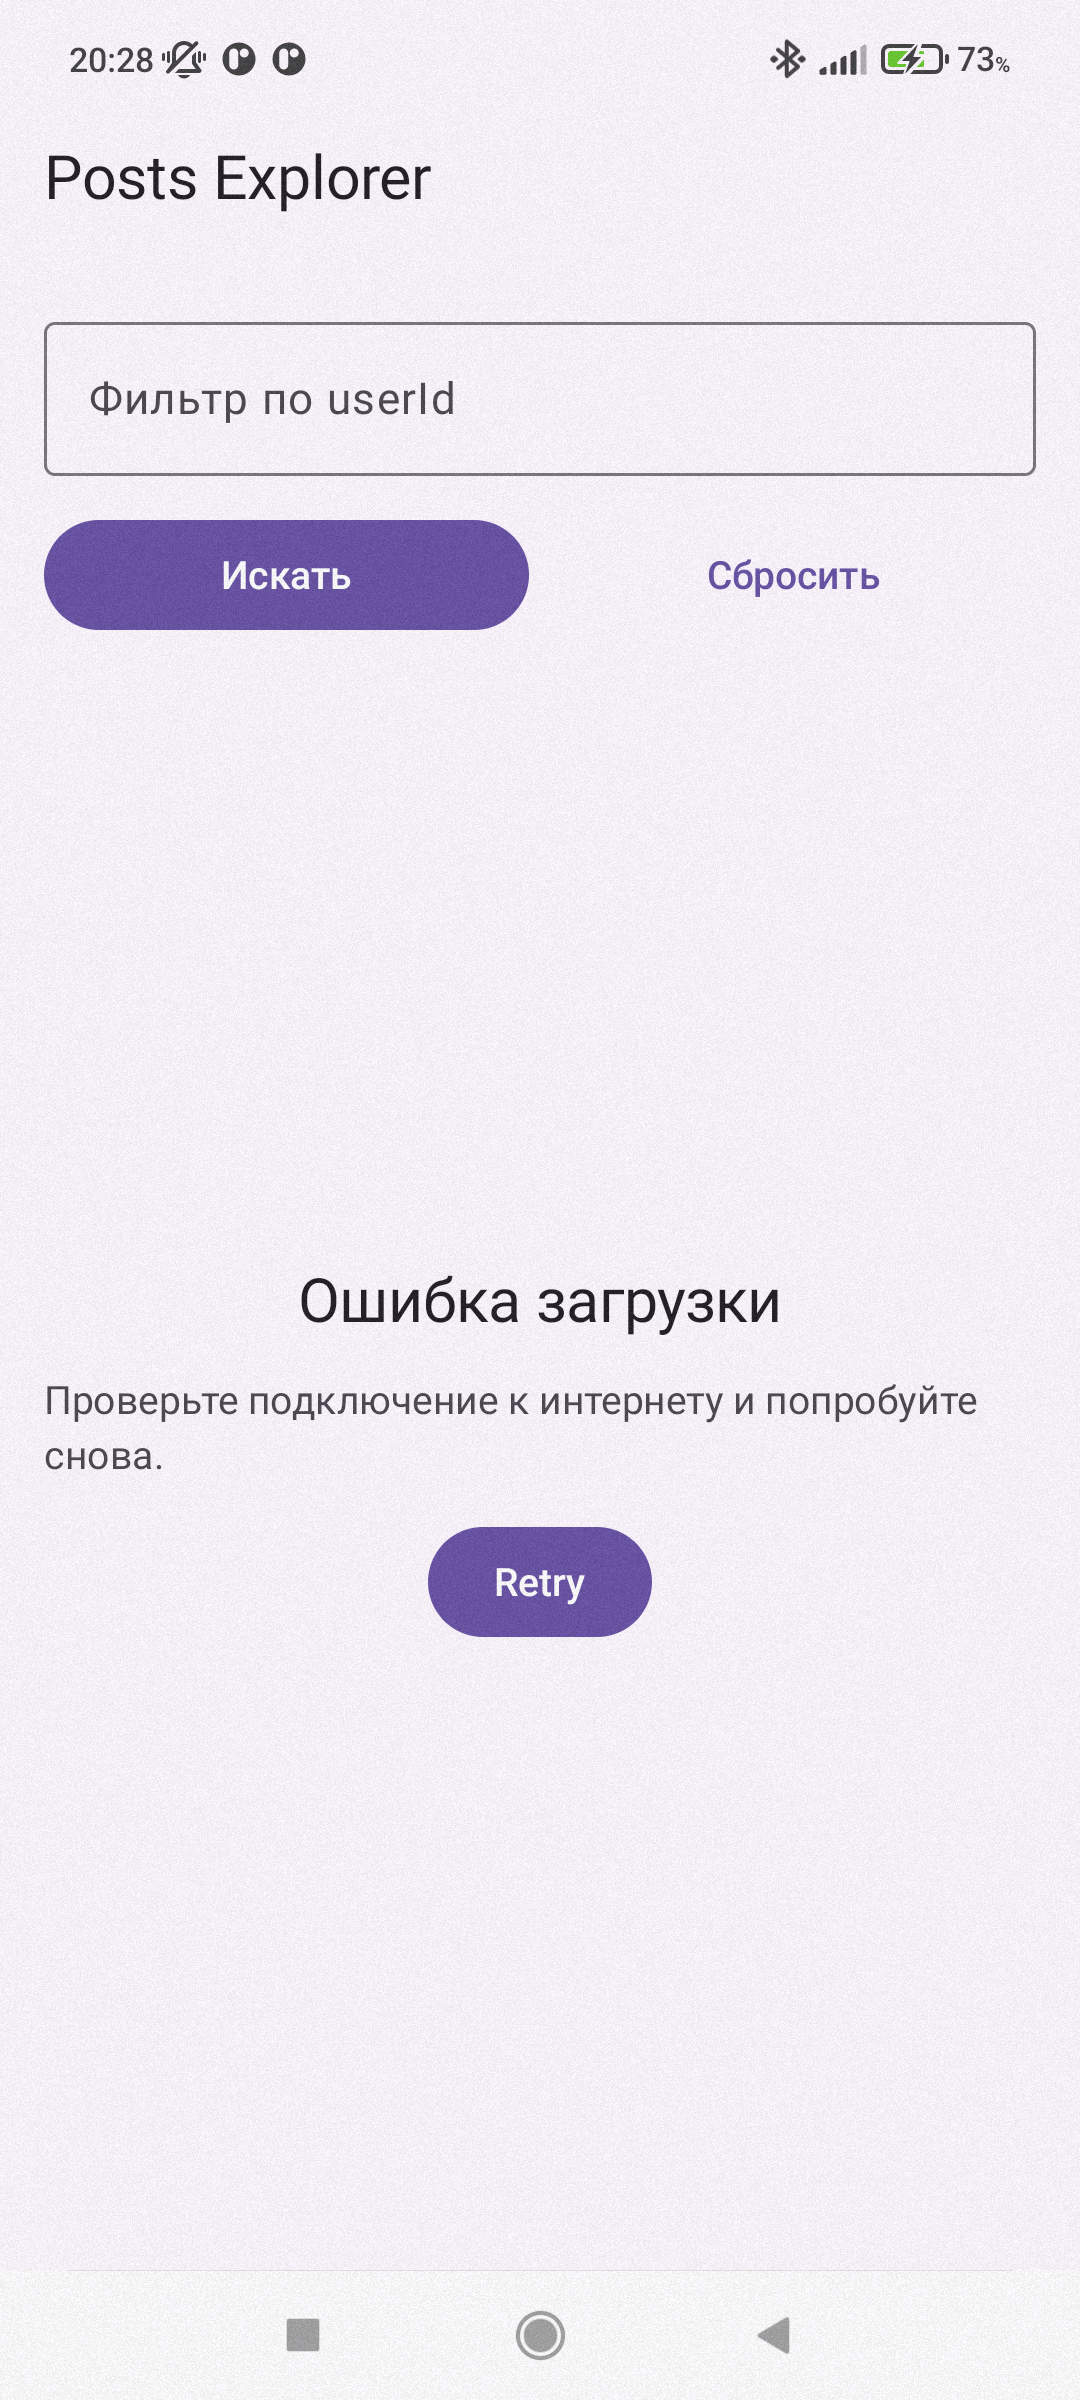
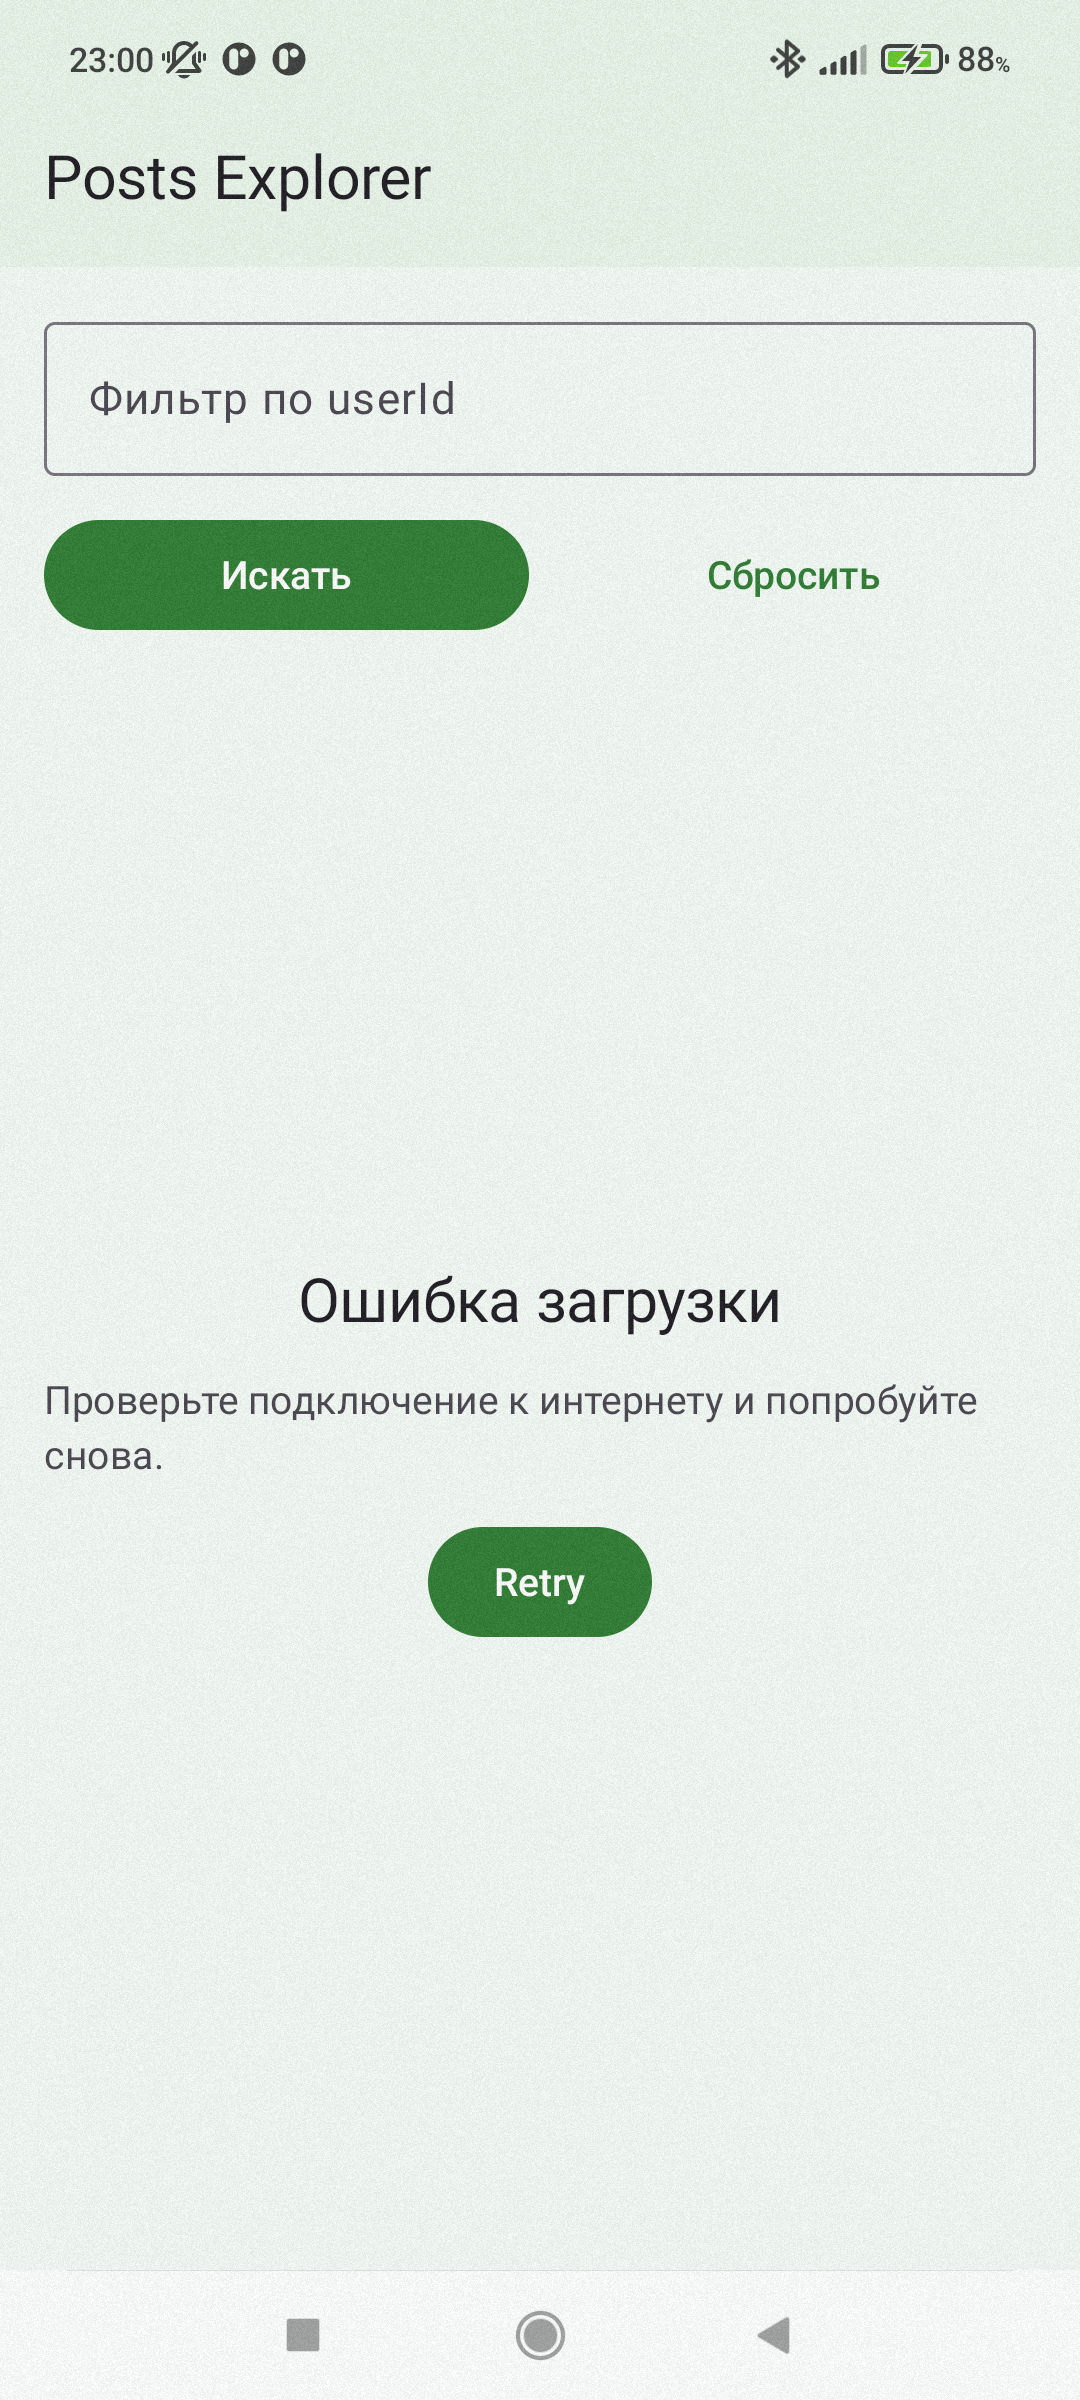
Refresh screenshots and green card styling

diff --git a/app/src/main/java/com/example/task3/ui/detail/PostDetailScreen.kt b/app/src/main/java/com/example/task3/ui/detail/PostDetailScreen.kt
@@ -11,6 +11,7 @@ import androidx.compose.foundation.lazy.LazyColumn
 import androidx.compose.foundation.lazy.items
 import androidx.compose.material3.Button
 import androidx.compose.material3.Card
+import androidx.compose.material3.CardDefaults
 import androidx.compose.material3.ExperimentalMaterial3Api
 import androidx.compose.material3.MaterialTheme
 import androidx.compose.material3.Scaffold
@@ -120,7 +121,12 @@ private fun PostDetailContent(
         verticalArrangement = Arrangement.spacedBy(12.dp),
     ) {
         item {
-            Card {
+            Card(
+                colors = CardDefaults.cardColors(
+                    containerColor = MaterialTheme.colorScheme.surface,
+                    contentColor = MaterialTheme.colorScheme.onSurface,
+                ),
+            ) {
                 Column(
                     modifier = Modifier
                         .fillMaxWidth()
@@ -145,7 +151,12 @@ private fun PostDetailContent(
             items = post.properties,
             key = { property -> property.label },
         ) { property ->
-            Card {
+            Card(
+                colors = CardDefaults.cardColors(
+                    containerColor = MaterialTheme.colorScheme.surface,
+                    contentColor = MaterialTheme.colorScheme.onSurface,
+                ),
+            ) {
                 Column(
                     modifier = Modifier
                         .fillMaxWidth()

diff --git a/app/src/main/java/com/example/task3/ui/list/PostListScreen.kt b/app/src/main/java/com/example/task3/ui/list/PostListScreen.kt
@@ -15,6 +15,7 @@ import androidx.compose.foundation.text.KeyboardActions
 import androidx.compose.foundation.text.KeyboardOptions
 import androidx.compose.material3.Button
 import androidx.compose.material3.Card
+import androidx.compose.material3.CardDefaults
 import androidx.compose.material3.ExperimentalMaterial3Api
 import androidx.compose.material3.MaterialTheme
 import androidx.compose.material3.OutlinedTextField
@@ -196,6 +197,10 @@ private fun PostListContent(
                 modifier = Modifier
                     .fillMaxWidth()
                     .clickable { onPostClick(item.id) },
+                colors = CardDefaults.cardColors(
+                    containerColor = MaterialTheme.colorScheme.surface,
+                    contentColor = MaterialTheme.colorScheme.onSurface,
+                ),
             ) {
                 Column(
                     modifier = Modifier

diff --git a/README.md b/README.md
@@ -13,15 +13,15 @@
 JSONPlaceholder
 
 ## Кратко суть
-Приложение показывает список постов, позволяет фильтровать их по `userId` и открывать детали выбранного поста.
+Приложение показывает список постов, позволяет фильтровать их по 'userId' и открывать детали выбранного поста.
 
 ## Что даёт API
-API возвращает тестовые посты списком и по `id`.
+API возвращает тестовые посты списком и по 'id'.
 
 ## Как запустить
-1. Клонировать репозиторий.
-2. Открыть проект в Android Studio.
-3. Запустить на эмуляторе или устройстве с Android 7.0+.
+1. Клонировать репозиторий;
+2. Открыть проект в Android Studio;
+3. Запустить на эмуляторе или устройстве с Android 7.0+;
 4. Интернет обязателен, данные загружаются по сети.
 
 ## Нужен ли ключ
